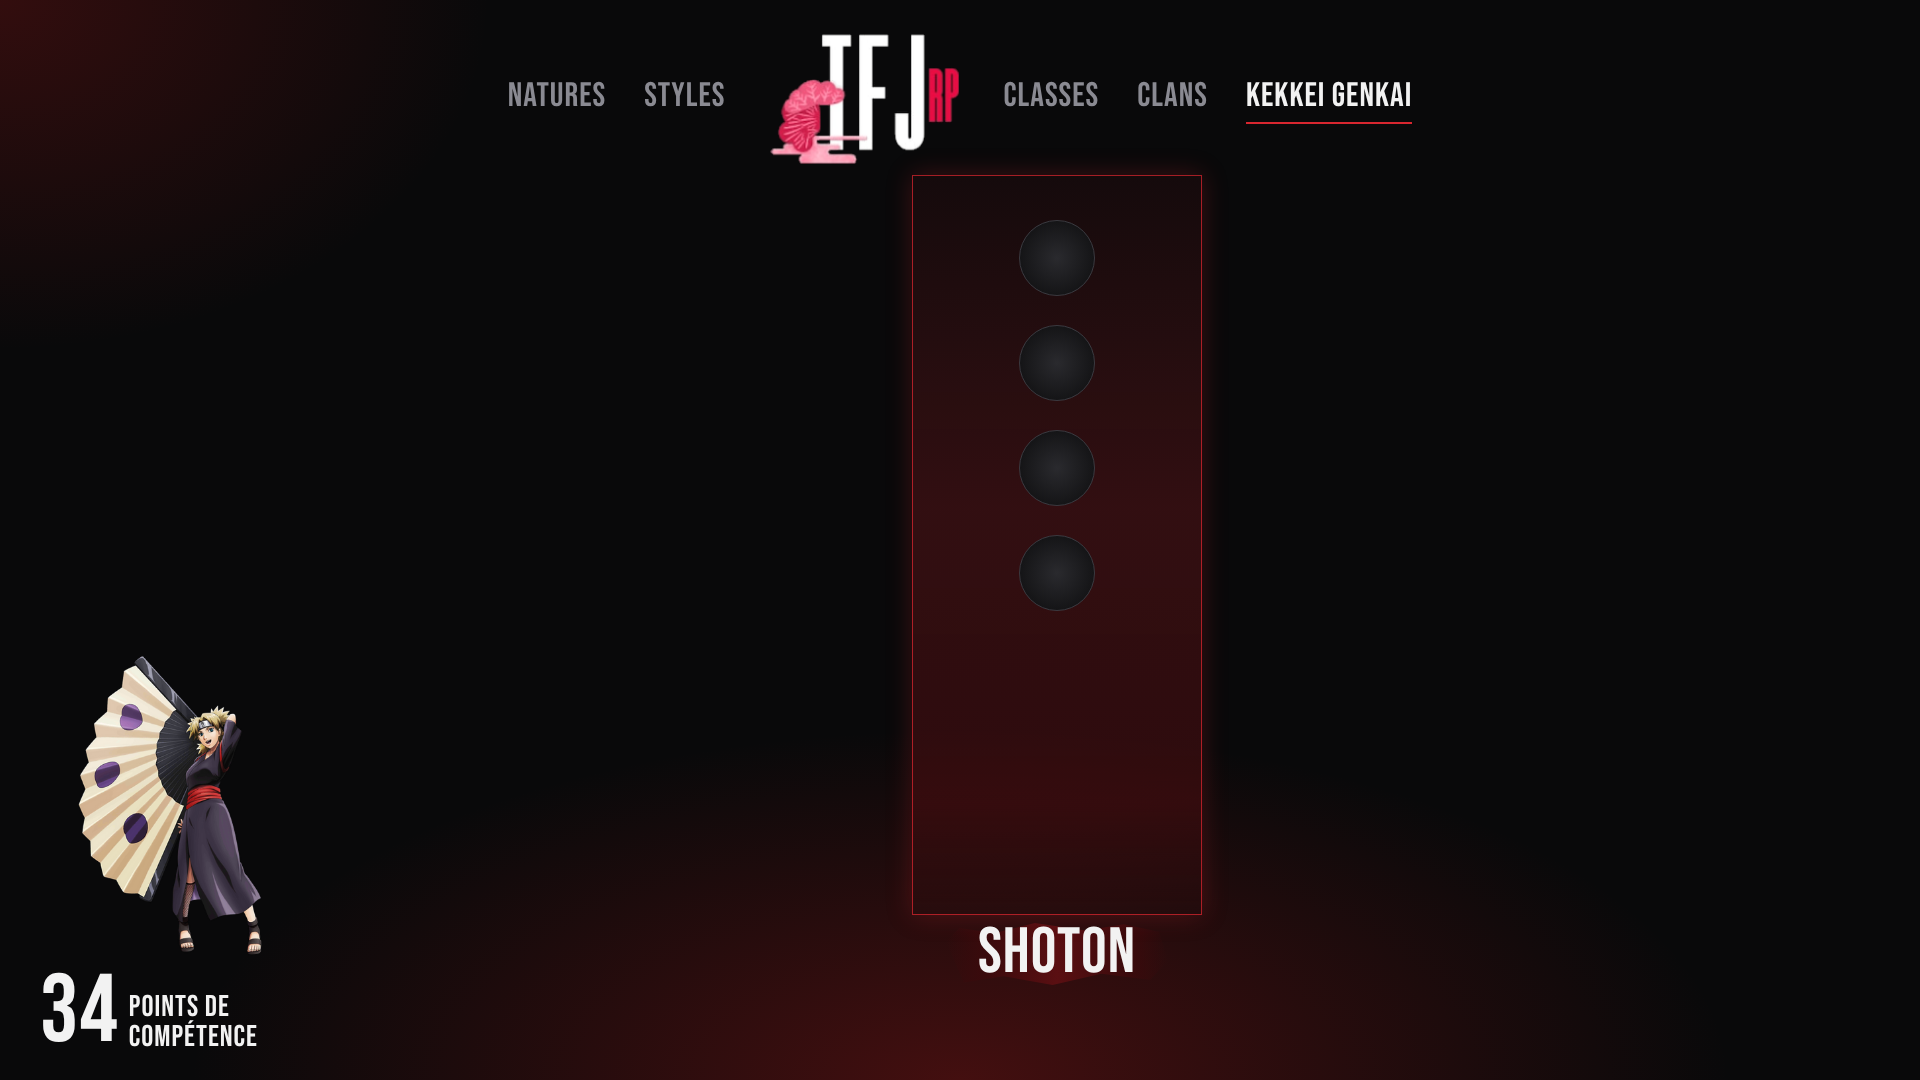
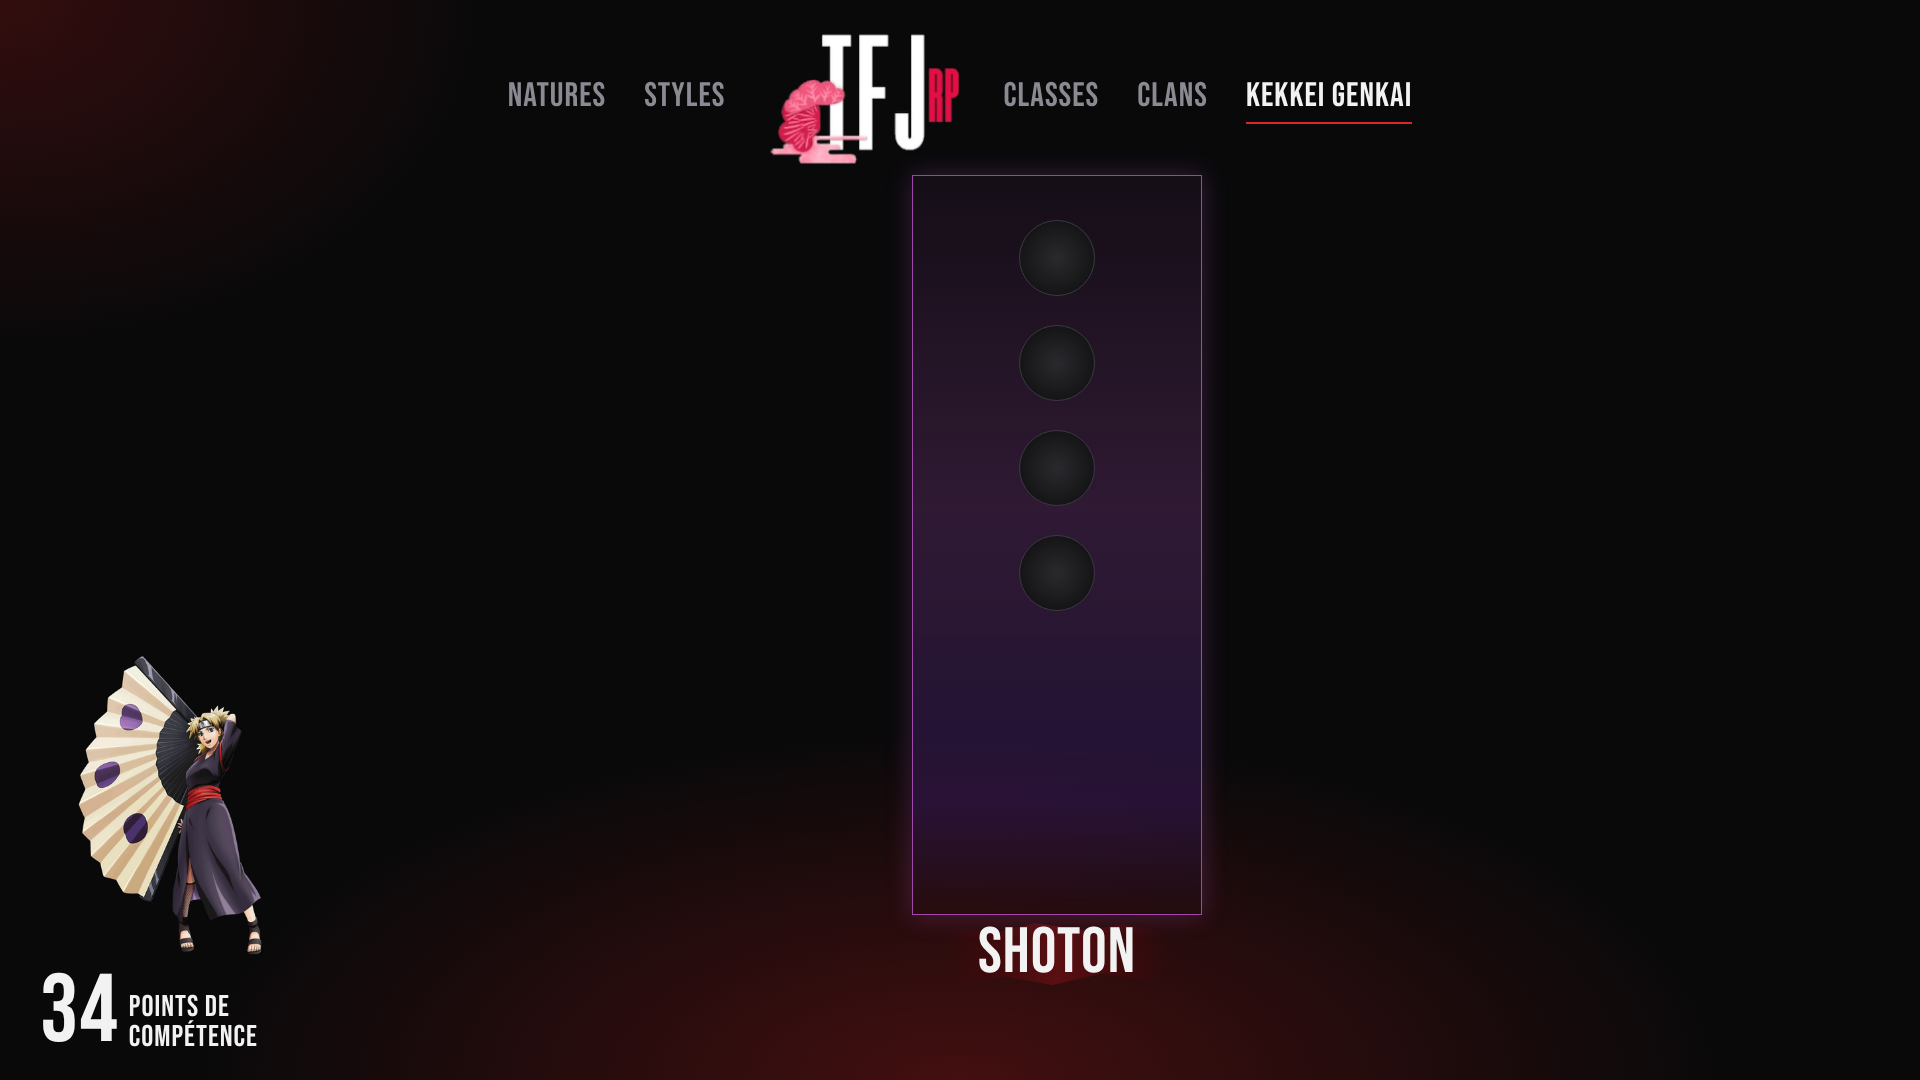
F4 Clans / KG : degrade d'apres les icones des techniques
Claude-Session: https://claude.ai/code/session_01WNq6bnfK84GAyjbejrSsQj

Changed region(s): [[0.4688, 0.3361, 0.625, 0.7944]]

diff --git a/maquettes/classe/maquette_f4_clans.html b/maquettes/classe/maquette_f4_clans.html
@@ -55,8 +55,8 @@ body{width:1920px;height:1080px;overflow:hidden;position:relative;font-family:Po
 </nav>
 
 
-<!-- une seule colonne : le jeu n'affiche que l'arbre du joueur (fnCheck dans sh_nrp_battle.lua), sans illustration -->
-<div class="col on" style="left:892px;--c1:#d8262f;--c2:#6a0e12">
+<!-- une seule colonne : le jeu n'affiche que l'arbre du joueur (fnCheck dans sh_nrp_battle.lua), sans illustration. Degrade = couleur moyenne des icones de ses techniques (IMaterial:GetColor en Lua) -->
+<div class="col on" style="left:892px;--c1:#e0262f;--c2:#1a0405">
   <div class="palier" style="top:45px"><span class="gem"></span></div>
   <div class="palier" style="top:150px"><span class="gem"></span></div>
   <div class="palier" style="top:255px"><span class="gem"></span></div>

diff --git a/maquettes/classe/maquette_f4_kekkei.html b/maquettes/classe/maquette_f4_kekkei.html
@@ -55,8 +55,8 @@ body{width:1920px;height:1080px;overflow:hidden;position:relative;font-family:Po
 </nav>
 
 
-<!-- une seule colonne : le jeu n'affiche que l'arbre du joueur (fnCheck dans sh_nrp_battle.lua), sans illustration -->
-<div class="col on" style="left:892px;--c1:#d8262f;--c2:#6a0e12">
+<!-- une seule colonne : le jeu n'affiche que l'arbre du joueur (fnCheck dans sh_nrp_battle.lua), sans illustration. Degrade = couleur moyenne des icones de ses techniques (IMaterial:GetColor en Lua) -->
+<div class="col on" style="left:892px;--c1:#c95ad8;--c2:#4a1f7a">
   <div class="palier" style="top:45px"><span class="gem"></span></div>
   <div class="palier" style="top:150px"><span class="gem"></span></div>
   <div class="palier" style="top:255px"><span class="gem"></span></div>

diff --git a/maquettes/STYLE_UI.md b/maquettes/STYLE_UI.md
@@ -1,7 +1,7 @@
 # Styles des menus TFJ
 
 Couleurs communes : noir, rouge (176, 26, 26), blanc.
-Menu F4 (arbre de compétences) : l'onglet Classe est en cours de refonte (maquette `classe/maquette_f4_classe.html`), on modifie le skill tree existant. Meme quota sur chaque onglet : 4 techniques par colonne. Chaque colonne a un degrade tire des couleurs de son illustration.
+Menu F4 (arbre de compétences) : l'onglet Classe est en cours de refonte (maquette `classe/maquette_f4_classe.html`), on modifie le skill tree existant. Meme quota sur chaque onglet : 4 techniques par colonne. Chaque colonne a un degrade tire des couleurs de son illustration ; pour Clans et Kekkei Genkai (sans illustration), couleur moyenne des icones de leurs techniques, calculee en jeu (IMaterial:GetColor).
 
 ## Style A : « lecteur de musique » (`references/style_A_lecteur_musique.png`)
 Utilisé pour : coffre, registre médical.
